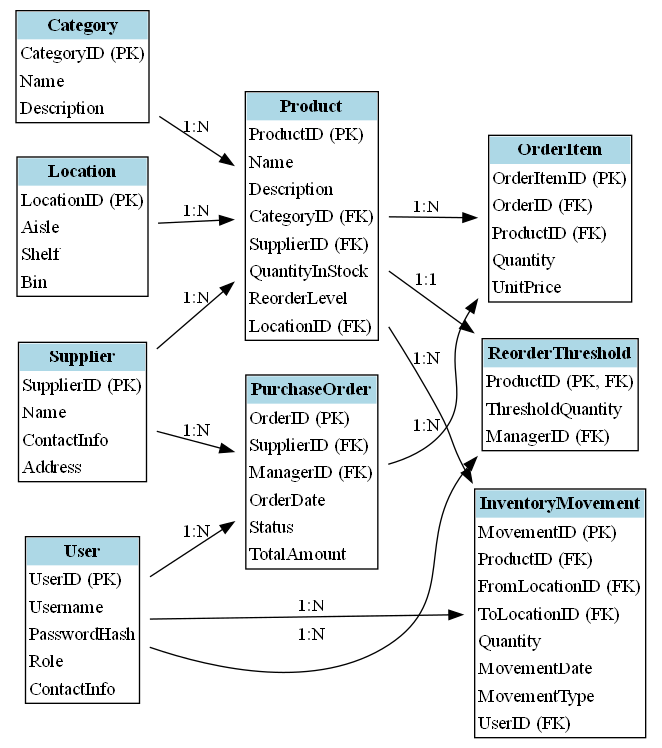
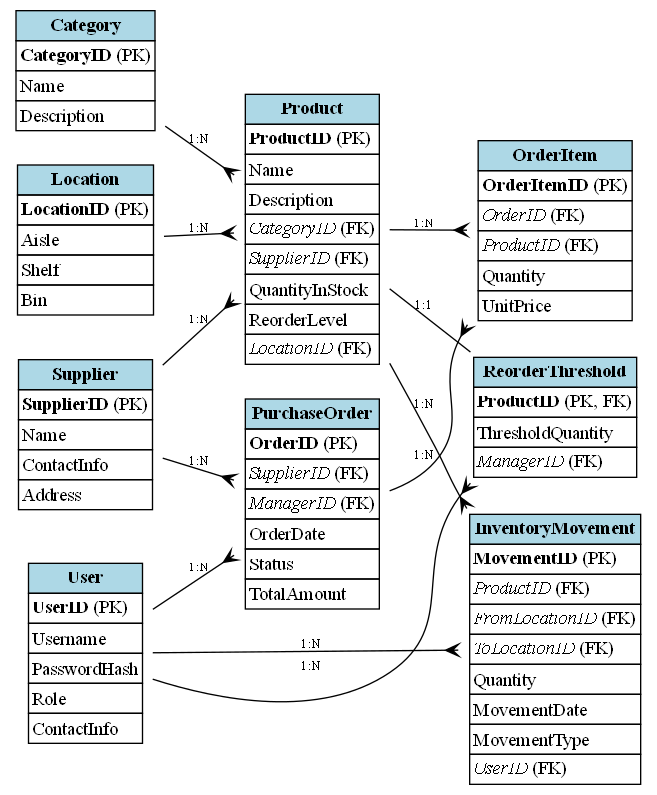
change

diff --git a/Diagram/ER_diagram.py b/Diagram/ER_diagram.py
@@ -1,37 +1,54 @@
-import pydot
-from graphviz import Digraph
 import os
+import re
+from graphviz import Digraph
 
 def create_er_diagram():
+    # Ensure the result directory exists
+    output_dir = 'F:/inventory_management-1/Diagram/result'
+    if not os.path.exists(output_dir):
+        os.makedirs(output_dir)
+    
     # Create a new directed graph
     dot = Digraph('ER_Diagram', format='png')
-    dot.attr(rankdir='LR', size='14')
-    dot.attr('node', shape='rectangle')
+    dot.attr(rankdir='LR', size='15')
+    dot.attr('node', shape='plaintext')
 
     # Define entities with their attributes
     entities = {
-        'User': ['UserID (PK)', 'Username', 'PasswordHash', 'Role', 'ContactInfo'],
-        'Product': ['ProductID (PK)', 'Name', 'Description', 'CategoryID (FK)', 'SupplierID (FK)', 'QuantityInStock', 'ReorderLevel', 'LocationID (FK)'],
-        'Category': ['CategoryID (PK)', 'Name', 'Description'],
-        'Supplier': ['SupplierID (PK)', 'Name', 'ContactInfo', 'Address'],
-        'PurchaseOrder': ['OrderID (PK)', 'SupplierID (FK)', 'ManagerID (FK)', 'OrderDate', 'Status', 'TotalAmount'],
-        'OrderItem': ['OrderItemID (PK)', 'OrderID (FK)', 'ProductID (FK)', 'Quantity', 'UnitPrice'],
-        'InventoryMovement': ['MovementID (PK)', 'ProductID (FK)', 'FromLocationID (FK)', 'ToLocationID (FK)', 'Quantity', 'MovementDate', 'MovementType', 'UserID (FK)'],
-        'Location': ['LocationID (PK)', 'Aisle', 'Shelf', 'Bin'],
-        'ReorderThreshold': ['ProductID (PK, FK)', 'ThresholdQuantity', 'ManagerID (FK)']
+        'User': ['<b>UserID</b> (PK)', 'Username', 'PasswordHash', 'Role', 'ContactInfo'],
+        'Product': ['<b>ProductID</b> (PK)', 'Name', 'Description', '<i>CategoryID</i> (FK)', '<i>SupplierID</i> (FK)', 'QuantityInStock', 'ReorderLevel', '<i>LocationID</i> (FK)'],
+        'Category': ['<b>CategoryID</b> (PK)', 'Name', 'Description'],
+        'Supplier': ['<b>SupplierID</b> (PK)', 'Name', 'ContactInfo', 'Address'],
+        'PurchaseOrder': ['<b>OrderID</b> (PK)', '<i>SupplierID</i> (FK)', '<i>ManagerID</i> (FK)', 'OrderDate', 'Status', 'TotalAmount'],
+        'OrderItem': ['<b>OrderItemID</b> (PK)', '<i>OrderID</i> (FK)', '<i>ProductID</i> (FK)', 'Quantity', 'UnitPrice'],
+        'InventoryMovement': ['<b>MovementID</b> (PK)', '<i>ProductID</i> (FK)', '<i>FromLocationID</i> (FK)', '<i>ToLocationID</i> (FK)', 'Quantity', 'MovementDate', 'MovementType', '<i>UserID</i> (FK)'],
+        'Location': ['<b>LocationID</b> (PK)', 'Aisle', 'Shelf', 'Bin'],
+        'ReorderThreshold': ['<b>ProductID</b> (PK, FK)', 'ThresholdQuantity', '<i>ManagerID</i> (FK)']
     }
+
+    # Function to generate valid PORT names
+    def make_port_name(attr):
+        # Remove HTML tags
+        port_name = re.sub(r'<[^>]*>', '', attr)
+        # Remove non-alphanumeric characters and replace with underscores
+        port_name = re.sub(r'\W+', '_', port_name)
+        # Ensure the port name doesn't start with a digit
+        if re.match(r'^\d', port_name):
+            port_name = '_' + port_name
+        return port_name.strip('_')
 
     # Add entities to the graph
     for entity, attributes in entities.items():
-        label = f'<<TABLE BORDER="1" CELLBORDER="0" CELLSPACING="0">\n'
-        label += f'<TR><TD BGCOLOR="lightblue"><B>{entity}</B></TD></TR>\n'
+        label = '<<TABLE BORDER="0" CELLBORDER="1" CELLSPACING="0">'
+        label += f'<TR><TD BGCOLOR="lightblue" ALIGN="CENTER"><B>{entity}</B></TD></TR>'
         for attr in attributes:
-            label += f'<TR><TD ALIGN="LEFT">{attr}</TD></TR>\n'
+            port_name = make_port_name(attr)
+            label += f'<TR><TD ALIGN="LEFT" PORT="{port_name}">{attr}</TD></TR>'
         label += '</TABLE>>'
 
-        dot.node(entity, label=label, shape='plaintext')
+        dot.node(entity, label=label)
 
-    # Define relationships
+    # Define relationships with cardinality indicators
     relationships = [
         ('User', 'InventoryMovement', '1', 'N', 'UserID', 'UserID'),
         ('Product', 'InventoryMovement', '1', 'N', 'ProductID', 'ProductID'),
@@ -46,21 +63,52 @@ def create_er_diagram():
         ('User', 'ReorderThreshold', '1', 'N', 'UserID', 'ManagerID'),
     ]
 
-    # Add relationships to the graph
+    # Add relationships to the graph with cardinality labels
     for parent, child, parent_card, child_card, parent_key, child_key in relationships:
-        # Define edge label with cardinality
-        label = f'{parent_card}:{child_card}'
-        dot.edge(parent, child, label=label)
+        if parent_card == '1' and child_card == '1':
+            label = '1:1'
+        elif parent_card == '1' and child_card == 'N':
+            label = '1:N'
+        elif parent_card == 'N' and child_card == 'N':
+            label = 'N:N'
+        else:
+            label = f'{parent_card}:{child_card}'
+
+        # Customize edge styles based on cardinality
+        if label == '1:N':
+            arrowhead = 'crow'
+            arrowsize = '1'
+        elif label == 'N:N':
+            arrowhead = 'crow'
+            arrowsize = '1'
+        elif label == '1:1':
+            arrowhead = 'none'
+            arrowsize = '0'
+        else:
+            arrowhead = 'normal'
+            arrowsize = '1'
+
+        dot.edge(parent, child, label=label, arrowhead=arrowhead, arrowsize=arrowsize, fontsize='10')
 
     # Specify the output file path inside the result folder
-    output_file_path = os.path.join('F:/inventory_management-1/Diagram/result', 'ER_diagram')
+    output_file_path = os.path.join(output_dir, 'ER_diagram')
 
-    # Render the diagram to a file
-    dot.render(output_file_path, view=False)
-
-    # Open and read the file if needed
-    with open(f'{output_file_path}.png', 'rb') as file:
-        result = file.read()
+    try:
+        # Render the diagram to a file
+        dot.render(output_file_path, view=False)
+        print(f"Diagram successfully created and saved at: {output_file_path}.png")
+    except Exception as e:
+        print(f"Error while rendering diagram: {e}")
     
+    # Open and read the file if needed
+    try:
+        with open(f'{output_file_path}.png', 'rb') as file:
+            pass
+        print("File successfully read.")
+    except FileNotFoundError:
+        print("The file was not found. Check the rendering step.")
+    except Exception as e:
+        print(f"Error while reading the file: {e}")
+
 if __name__ == "__main__":
     create_er_diagram()
